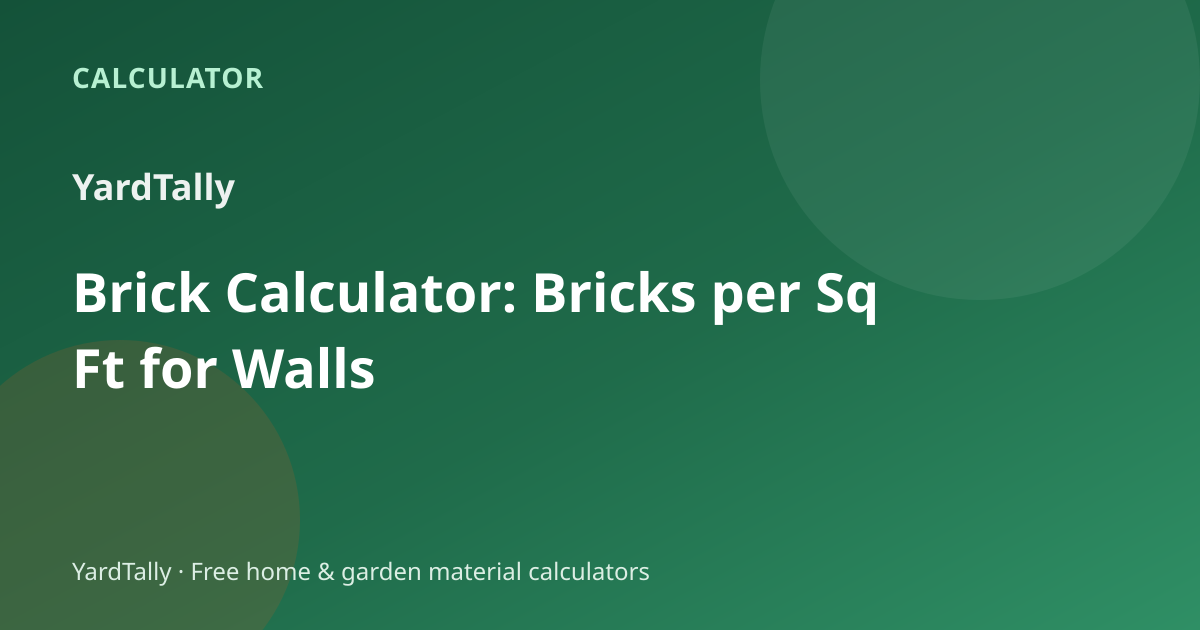
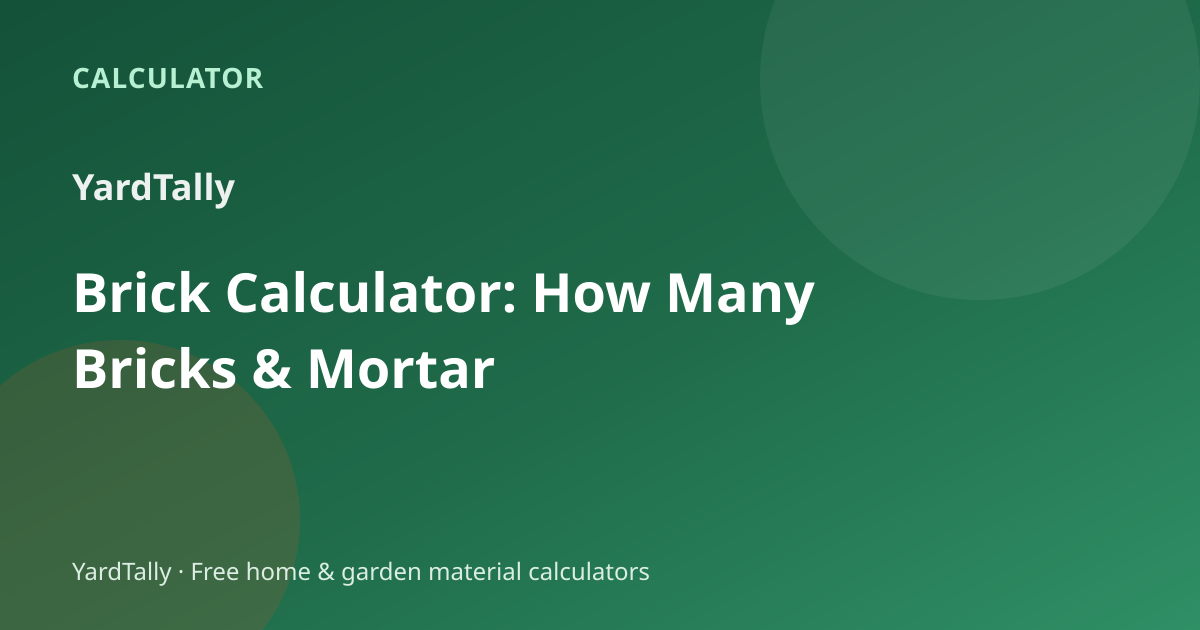
SEO fixes: slab cost, concrete, lumber, brick mortar, mulch (#56)
Retitle slab cost and concrete calculators; numeric answerFirst on slab
cost (1.23/1.36 yd with waste; prices labeled examples). Improve lumber
meta and assign weight-per-foot to the chart guide in KEYWORD-MAP. Add
QUIKRETE 1102 mortar-bag output and retitle brick. Remove duplicate
mulch-depth quick answer; link how-many-bags to slab cost.

Changed region(s): [[0.0617, 0.5429, 0.4317, 0.6333], [0.4317, 0.4222, 0.74, 0.5127]]

diff --git a/src/data/tools.ts b/src/data/tools.ts
@@ -233,10 +233,10 @@ export const tools: ToolDefinition[] = [
       'concrete calculator yards',
       'concrete calculator bags',
     ],
-    title: 'Concrete Slab Calculator: Yards, Bags & Rebar',
+    title: 'Concrete Calculator: Slab Yards & Bags',
     description:
       'Free concrete slab calculator for yards and 40/60/80 lb bags. Size 10×10, 12×12, and 20×20 at 4–6 inches, add waste, and see when a ready-mix truck makes sense.',
-    h1: 'Concrete Slab Calculator: Yards, Bags & Rebar',
+    h1: 'Concrete Calculator: Slab Yards & Bags',
     answerFirst:
       'This concrete slab calculator turns length × width × thickness into cubic yards and 40/60/80 lb bags. A 10×10 slab at 4 inches is about 1.23 cu yd (≈62 × 80 lb bags after 10% waste). Add waste, compare bag vs ready-mix, and open the size table below for 12×12 and 20×20.',
     summary: 'Concrete slab calculator for yards, bags, and common patio sizes.',
@@ -325,7 +325,7 @@ export const tools: ToolDefinition[] = [
     ],
     sectionsHtml: toolBodies['concrete-calculator'],
     datePublished: '2026-10-19',
-    dateModified: '2026-11-22',
+    dateModified: '2026-11-27',
     applicationCategory: 'UtilitiesApplication',
     embeddable: true,
   },
@@ -1847,12 +1847,12 @@ export const tools: ToolDefinition[] = [
       'CMU calculator',
       'cinder block calculator',
     ],
-    title: 'Brick Calculator: Bricks per Sq Ft for Walls',
+    title: 'Brick Calculator: How Many Bricks & Mortar',
     description:
-      'Brick calculator and brick estimator for walls. Count modular brick or CMU blocks per square foot with mortar joints and waste.',
-    h1: 'Brick Calculator: Bricks per Sq Ft for Walls',
+      'Brick calculator for walls: count modular brick or CMU, then estimate 80 lb mortar bags (QUIKRETE 1102: up to 37 bricks or 13 blocks per bag).',
+    h1: 'Brick Calculator: How Many Bricks & Mortar',
     answerFirst:
-      'Bricks needed ≈ wall face ÷ (brick face + mortar joint), counted in full courses. Modular brick with a ⅜ inch joint uses about 6.86 bricks per square foot (Glen-Gery). Switch to CMU mode for standard 8×16 concrete block faces.',
+      'Bricks needed ≈ wall face ÷ (brick face + mortar joint), counted in full courses. Modular brick with a ⅜ inch joint uses about 6.86 bricks per square foot (Glen-Gery). Mortar bags use QUIKRETE Mortar Mix 1102: up to 37 standard bricks or 13 standard blocks per 80 lb bag—confirm the bag you buy.',
     summary: 'Clay brick or CMU counts for a wall face with mortar and waste.',
     calculatorId: 'brick',
     relatedSlugs: [
@@ -1878,7 +1878,7 @@ export const tools: ToolDefinition[] = [
       {
         question: 'How much mortar per brick?',
         answer:
-          'Mortar volume depends on joint width and whether joints are full or face-shell bedded. This calculator counts units, not mortar bags—ask your mason or use the coverage on the mortar mix bag you buy.',
+          'QUIKRETE Mortar Mix No. 1102 lists up to 37 standard bricks or 13 standard 8×8×16 blocks per 80 lb bag. This calculator divides units-with-waste by those yields and rounds up. Joint width, bedding style, and specialty mixes change coverage—read the bag you buy.',
       },
       {
         question: 'Can I calculate concrete blocks (CMU) here?',
@@ -1904,10 +1904,16 @@ export const tools: ToolDefinition[] = [
         usedFor: 'Nominal 8×8×16 CMU; specified faces typically ⅜ in less than nominal for modular joints',
         checked: '2026-11-13',
       },
+      {
+        label: 'QUIKRETE Mortar Mix (No. 1102) data sheet',
+        href: 'https://www.quikrete.com/pdfs/data_sheet-mortar%20mix%201102.pdf',
+        usedFor: '80 lb bag lays up to 37 standard bricks or 13 standard 8×8×16 blocks',
+        checked: '2026-11-27',
+      },
     ],
     sectionsHtml: toolBodies['brick-calculator'],
     datePublished: '2026-11-13',
-    dateModified: '2026-11-25',
+    dateModified: '2026-11-27',
     applicationCategory: 'UtilitiesApplication',
     embeddable: true,
   },
@@ -1924,13 +1930,11 @@ export const tools: ToolDefinition[] = [
       'how much lumber do I need',
       'lumber weight calculator',
       'dimensional lumber weight calculator',
-      'dimensional lumber weight per foot',
       'square foot lumber calculator',
-      '2x4 weight',
     ],
     title: 'Lumber Calculator: Board Feet & Weight',
     description:
-      'Free lumber calculator for board feet, piece counts, and dimensional lumber weight. Softwood weight chart link plus KD vs green density options.',
+      'Free lumber calculator for board feet, piece counts, and softwood weight (dressed size × USDA density). Per-foot charts live on the lumber weight chart guide.',
     h1: 'Lumber Calculator: Board Feet & Weight',
     answerFirst:
       'Board feet = (nominal thickness × nominal width × length in feet) ÷ 12. Ten 2×4×8s are 53.3 board feet. Weight uses the dressed section (a 2×4 is 1½×3½) × USDA Wood Handbook density—about 8.4 lb for one kiln-dried SPF 2×4×8 as a planning estimate.',
@@ -2004,7 +2008,7 @@ export const tools: ToolDefinition[] = [
     ],
     sectionsHtml: toolBodies['lumber-calculator'],
     datePublished: '2026-11-13',
-    dateModified: '2026-11-25',
+    dateModified: '2026-11-27',
     applicationCategory: 'UtilitiesApplication',
     embeddable: true,
   },
@@ -2100,12 +2104,12 @@ export const tools: ToolDefinition[] = [
       'concrete patio cost calculator',
       'ready mix concrete cost calculator',
     ],
-    title: 'Concrete Slab Cost: Price per Sq Ft & Yard',
+    title: 'Concrete Slab Cost Calculator: Price per Sq Ft',
     description:
-      'Estimate concrete slab cost from your ready-mix $/yard or bag price. See price per sq ft, volume, and optional gravel, rebar, forms, and delivery add-ons.',
-    h1: 'Concrete Slab Cost: Price per Sq Ft & Yard',
+      'Estimate concrete slab cost from your ready-mix or bag price. A 10×10×4″ pour is about 1.36 cu yd with 10% waste—enter your quotes for total and $/sq ft.',
+    h1: 'Concrete Slab Cost Calculator: Price per Sq Ft',
     answerFirst:
-      'This concrete slab cost calculator turns length × width × thickness into cubic yards (or bags), then multiplies by the ready-mix or bag price you enter. Add optional line items you price yourself—gravel base, rebar or mesh, forms, delivery/short-load fees, and labor per square foot. Defaults are labeled examples only; replace them with your plant or store quotes.',
+      'A 10×10 slab at 4 inches is about 1.23 cu yd before waste (~1.36 cu yd with 10% waste). This concrete slab cost calculator multiplies that volume (or bag count) by the ready-mix or bag price you enter, then adds optional gravel, rebar, forms, delivery, and labor you price yourself. Default dollar fields are labeled examples—not market stats.',
     summary: 'Slab volume priced with your ready-mix or bag quotes plus optional add-ons.',
     calculatorId: 'concrete-slab-cost',
     relatedSlugs: [
@@ -2171,7 +2175,7 @@ export const tools: ToolDefinition[] = [
     ],
     sectionsHtml: toolBodies['concrete-slab-cost-calculator'],
     datePublished: '2026-11-19',
-    dateModified: '2026-11-22',
+    dateModified: '2026-11-27',
     applicationCategory: 'UtilitiesApplication',
     embeddable: true,
   },

diff --git a/src/data/guideBodies.ts b/src/data/guideBodies.ts
@@ -70,9 +70,7 @@ export const guideBodies: Record<string, string> = {
         <li><a href="https://www.sakrete.com/wp-content/uploads/2024/01/Sakrete-High-Strength-Concrete-Mix-TDS.pdf" rel="noopener noreferrer">Sakrete High Strength Concrete Mix TDS – bag yields</a></li>
       </ul>
   `,
-  'mulch-depth-guide': `      <div class="takeaway"><strong>Quick answer:</strong> Most flower beds and gardens want about <strong>2–3 inches</strong> of organic mulch—not a volcano against trunks. Pick the depth first, then run the free <a href="/calculators/mulch-calculator/">mulch calculator for bags and cubic yards</a>, the <a href="/calculators/mulch-calculator-circular-beds/">circular bed mulch calculator</a> for round beds, or the <a href="/calculators/mulch-calculator-tree-rings/">tree ring mulch calculator</a> for donuts. Formula: <strong>cu&nbsp;ft = area (sq&nbsp;ft) × (depth_inches ÷ 12)</strong>.</div>
-
-      <h2>How deep should mulch be in flower beds / for gardens?</h2>
+  'mulch-depth-guide': `      <h2>How deep should mulch be in flower beds / for gardens?</h2>
       <p><strong>Two to three inches.</strong> That's the working range for most flower beds and gardens—deep enough to knock weeds back and hold moisture, shallow enough that roots still get air. Clemson lists 2–3 inches for many wood and bark mulches; UF/IFAS Florida-Friendly guidance targets about 3 inches and says don't exceed 3 inches in beds.</p>
       <p>This page answers “how deep,” not only “how many bags.” Once you lock the inches, size the order with the <a href="/calculators/mulch-calculator/">mulch calculator for bags and yards</a>. Rectangle charts live in the <a href="/guides/mulch-for-common-garden-beds/">common bed sizes chart</a>.</p>
 
@@ -241,6 +239,7 @@ export const guideBodies: Record<string, string> = {
       </ul>
 
       <p>I'd rather haul one extra 80 lb bag than stop mid-spread with a wet slab waiting.</p>
+      <p>Once you know yards and bags, price the pour with your plant or store quotes on the <a href="/calculators/concrete-slab-cost-calculator/">concrete slab cost calculator</a>—defaults there are labeled examples, not market rates.</p>
       <h2>Does bag brand change the count?</h2>
       <p>Yes, a little. QUIKRETE 1101 and Sakrete High Strength sit close on the 40 / 60 / 80 lb planning yields YardTally uses, but lightweight, crack-resistant, and high-early mixes often print different coverage. If the store only has a specialty bag, don't force the 0.60 cu ft assumption. Re-divide with the number on that bag.</p>
       <p>Color and finish matter on visible slabs. Mixing two brands in one pour can show as a shade or texture change when it cures. Fence posts buried underground care less about color and more about outdoor mix vs interior patching compound.</p>

diff --git a/src/lib/calculators/brick.ts b/src/lib/calculators/brick.ts
@@ -18,6 +18,13 @@ export const CMU_FACE_HEIGHT_IN = 7.625;
 /** Common mortar joint for modular brick and CMU, inches. */
 export const STANDARD_MORTAR_JOINT_IN = 0.375;
 
+/**
+ * QUIKRETE Mortar Mix No. 1102 (80 lb): lays up to 37 standard bricks or
+ * 13 standard 8×8×16 blocks per bag (product data sheet, revised Nov 2020).
+ */
+export const QUIKRETE_MORTAR_80LB_BRICKS = 37;
+export const QUIKRETE_MORTAR_80LB_BLOCKS = 13;
+
 export interface BrickResult {
   mode: MasonryMode;
   faceAreaSqFt: number;
@@ -28,6 +35,8 @@ export interface BrickResult {
   unitsWithWaste: number;
   moduleLengthIn: number;
   moduleHeightIn: number;
+  /** 80 lb QUIKRETE Mortar Mix bags for unitsWithWaste (ceil). */
+  mortarBags80: number;
 }
 
 /**
@@ -66,6 +75,9 @@ export function masonryUnits(opts: {
   const exact = courses * unitsPerCourse;
   const waste = (opts.wastePercent ?? 5) / 100;
   const withWaste = Math.ceil(Math.round(exact * (1 + waste) * 1e6) / 1e6);
+  const perBag =
+    mode === 'cmu' ? QUIKRETE_MORTAR_80LB_BLOCKS : QUIKRETE_MORTAR_80LB_BRICKS;
+  const mortarBags80 = Math.ceil(withWaste / perBag);
 
   return {
     mode,
@@ -77,6 +89,7 @@ export function masonryUnits(opts: {
     unitsWithWaste: withWaste,
     moduleLengthIn: round(moduleL, 3),
     moduleHeightIn: round(moduleH, 3),
+    mortarBags80,
   };
 }
 

diff --git a/src/data/guides.ts b/src/data/guides.ts
@@ -88,7 +88,7 @@ export const guides: GuideDefinition[] = [
       'raised-bed-soil-mix-4x8',
     ],
     datePublished: '2026-10-19',
-    dateModified: '2026-11-25',
+    dateModified: '2026-11-27',
   }),
   g({
     slug: 'how-many-bags-of-concrete',
@@ -102,6 +102,7 @@ export const guides: GuideDefinition[] = [
       'An 80 lb bag yields about 0.60 cu ft; you need roughly 45 bags per cubic yard before waste. Divide your project volume in cubic feet by the bag yield (about 0.30 / 0.45 / 0.60 for 40 / 60 / 80 lb), then round up. For pours larger than about one yard, ready-mix is usually more practical.',
     relatedToolSlugs: [
       'concrete-calculator',
+      'concrete-slab-cost-calculator',
       'concrete-calculator-post-holes',
       'sonotube-concrete-calculator',
       'rebar-calculator',
@@ -115,7 +116,7 @@ export const guides: GuideDefinition[] = [
       'sonotube-footing-and-depth',
     ],
     datePublished: '2026-10-19',
-    dateModified: '2026-11-19',
+    dateModified: '2026-11-27',
   }),
   g({
     slug: 'concrete-for-10x10-slab',

diff --git a/src/data/toolBodies.ts b/src/data/toolBodies.ts
@@ -1031,7 +1031,7 @@ bags = ceil(volume_total × (1 + waste) ÷ bag_yield)</code></pre>
         <li>Skipping waste on cut-heavy patterns.</li>
       </ul>
       <h2>Assumptions and limits</h2>
-      <p><strong>Planning estimate only.</strong> Check manufacturer specs and local code before you order. Results assume a flat rectangular face with uniform unit size and joint. Corbelled, curved, or multi-wythe walls need extra detailing. Mortar volume isn't estimated here—ask your mason or use bag coverage on the mortar mix you buy.</p>
+      <p><strong>Planning estimate only.</strong> Check manufacturer specs and local code before you order. Results assume a flat rectangular face with uniform unit size and joint. Corbelled, curved, or multi-wythe walls need extra detailing. Mortar bags use QUIKRETE Mortar Mix No. 1102 yields (up to 37 standard bricks or 13 standard blocks per 80 lb bag)—confirm the bag you buy.</p>
       <h2>Shopping checklist</h2>
       <ul>
         <li>Confirm actual face dimensions and joint width with the supplier.</li>

diff --git a/tests/calculators.test.ts b/tests/calculators.test.ts
@@ -667,6 +667,26 @@ describe('brick / CMU', () => {
     });
     expect(r.unitsWithWaste).toBe(Math.ceil(r.unitsExact * 1.05));
   });
+
+  it('estimates 80 lb mortar bags from QUIKRETE 1102 yields', () => {
+    const brick = brickCount({
+      wallLength: 10,
+      wallHeight: 10,
+      wastePercent: 0,
+    });
+    // 15×46 = 690 bricks → ceil(690/37) = 19 bags
+    expect(brick.unitsExact).toBe(690);
+    expect(brick.mortarBags80).toBe(Math.ceil(690 / 37));
+
+    const cmu = cmuCount({
+      wallLength: 16,
+      wallHeight: 8,
+      wastePercent: 0,
+    });
+    // 144 blocks → ceil(144/13) = 12 bags
+    expect(cmu.unitsExact).toBe(144);
+    expect(cmu.mortarBags80).toBe(Math.ceil(144 / 13));
+  });
 });
 
 describe('lumber', () => {

diff --git a/src/data/calculatorFields.ts b/src/data/calculatorFields.ts
@@ -960,6 +960,7 @@ export const defaultResultRows: Record<string, [string, string][]> = {
     ['Units / course', String(brickDefault.unitsPerCourse)],
     ['Units (exact)', String(brickDefault.unitsExact)],
     ['Units with waste', String(brickDefault.unitsWithWaste)],
+    ['80 lb mortar bags (est.)', String(brickDefault.mortarBags80)],
   ],
   lumber: [
     ['Board feet / piece', String(lumberDefault.boardFeetPerPiece)],

diff --git a/docs/KEYWORD-MAP.md b/docs/KEYWORD-MAP.md
@@ -40,7 +40,7 @@ Governing research: [MARKET-RESEARCH.md](./MARKET-RESEARCH.md), [SEO-PLAYBOOK.md
 | `/calculators/raised-bed-soil-calculator/` | raised bed soil calculator | garden box soil calculator |
 | `/calculators/asphalt-calculator/` | asphalt calculator | asphalt driveway calculator, how much asphalt do I need, asphalt tons calculator, blacktop calculator |
 | `/calculators/brick-calculator/` | brick calculator | brick estimator, how many bricks do I need, concrete block calculator, CMU calculator, cinder block calculator |
-| `/calculators/lumber-calculator/` | lumber calculator | board feet calculator, how many board feet, what is a board foot, how much lumber do I need, lumber weight calculator, dimensional lumber weight calculator, dimensional lumber weight per foot, square foot lumber calculator, 2x4 weight |
+| `/calculators/lumber-calculator/` | lumber calculator | board feet calculator, how many board feet, what is a board foot, how much lumber do I need, lumber weight calculator, dimensional lumber weight calculator, square foot lumber calculator |
 | `/guides/lumber-weight-chart/` | lumber weight chart | 2x4 weight, 2x4 weight per foot, how much does a 2x4x8 weigh, lumber weight per foot, dimensional lumber weight per foot, pressure treated lumber weight |
 | `/calculators/rebar-calculator/` | rebar calculator | how much rebar for a slab, concrete slab rebar, rebar spacing calculator, rebar for 20x20 slab |
 | `/guides/how-much-concrete-for-fence-posts/` | how much concrete for fence posts | bags of concrete for fence posts |
@@ -82,7 +82,8 @@ Governing research: [MARKET-RESEARCH.md](./MARKET-RESEARCH.md), [SEO-PLAYBOOK.md
 - Slab **cost** (`/calculators/concrete-slab-cost-calculator/`) is separate from slab **volume** (`/calculators/concrete-calculator/`)—do not merge; cost page must use user-entered prices only (no invented market rates).
 - Rebar is a **separate intent** from concrete volume—keep `/calculators/rebar-calculator/`; do **not** launch a second slab-volume URL under a rebar slug.
 - Brick calculator owns clay brick **and** CMU/cinder-block count modes—do not split `/concrete-block-calculator/`. Segmental retaining-wall blocks stay on the retaining-wall tool.
-- Lumber calculator owns board-foot tally **and** lumber weight (same URL)—do not split `/board-feet-calculator/` or `/lumber-weight-calculator/`. Weight **chart** guide (`/guides/lumber-weight-chart/`) owns know/compare tables for 2×4 weight etc.; calculator owns the interactive estimator. Deck board/joist layout stays on the deck-material tool.
+- Lumber calculator owns board-foot tally **and** interactive lumber weight (same URL)—do not split `/board-feet-calculator/` or `/lumber-weight-calculator/`. Weight **chart** guide (`/guides/lumber-weight-chart/`) owns know/compare **weight-per-foot** tables (2×4 lb/ft, dimensional lumber weight per foot); do not target those “per foot” chart queries on the calculator title/meta. Deck board/joist layout stays on the deck-material tool.
+- Brick calculator owns unit counts **and** mortar-bag estimates from QUIKRETE Mortar Mix 1102 yields (37 bricks / 13 blocks per 80 lb)—do not invent other bag coverage.
 - Deck footing calculator owns **pier count + frost-depth concrete** from deck size/spacing—do not fold into deck-material or Sonotube titles; link Sonotube for known tube-only pours.
 - Tree-ring mulch ≠ bed mulch—keep separate. Mulch **depth** guide ≠ mulch **quantity** calculator (owns “how much mulch do I need” + bags vs bulk + 3-3-3) ≠ common **bed-size** chart. Legacy `/guides/how-much-mulch-do-i-need/` **301** → `/calculators/mulch-calculator/`.
 - French drain gravel (trench − pipe + fabric) ≠ flat-pad gravel calculator—keep `/calculators/french-drain-gravel-calculator/` separate; link to `/calculators/gravel-calculator/` for pads/drives.

diff --git a/docs/GROWTH-STATUS.md b/docs/GROWTH-STATUS.md
@@ -28,7 +28,8 @@ As of **2026-11-25** (GSC `sc-domain:getyardtally.com`, last **3 months** unless
 
 ## Done
 
-- **2026-11-27 — this PR (Worker `/404/` body):** Live `/404/` returned empty body + `Location: /404/` because the Worker fetched `/404.html` and Assets `force-trailing-slash` 307’d it. Now fetches ASSETS `/404/`, strips Location, forces status 404 (also covers `/404.html`). **No IndexNow.**
+- **2026-11-27 — this PR (SEO page fixes):** Concrete slab cost title/H1/meta + numeric answerFirst; concrete calculator title “Slab Yards & Bags”; lumber meta + KEYWORD-MAP settle weight-per-foot on chart guide; brick mortar bags (QUIKRETE 1102: 37 bricks / 13 blocks per 80 lb) + retitle; mulch-depth duplicate takeaway removed; how-many-bags → slab-cost link. **No IndexNow.**
+- **2026-11-27 — Worker `/404/` body (#55):** Live `/404/` returned empty body + `Location: /404/` because the Worker fetched `/404.html` and Assets `force-trailing-slash` 307’d it. Now fetches ASSETS `/404/`, strips Location, forces status 404 (also covers `/404.html`).
 - **2026-11-27 — embed framing (#54):** `/embed/*` can be iframed cross-origin (`! X-Frame-Options` + CSP `frame-ancestors *`); site-wide `X-Frame-Options: SAMEORIGIN` unchanged.
 - **2026-11-27 — analytics reliability (#53):** GA no longer deferred via `requestIdleCallback` (loads immediately); Accept path sends at most one `page_view` (explicit only if `config` already ran); CSP `script-src` includes `https://*.adtrafficquality.google`.
 - **2026-11-27 — geo analytics consent (#52):** Consent Mode region defaults — EEA/UK/CH analytics+ads denied until Google CMP; elsewhere `analytics_storage` granted by default (ads still denied until Accept). Cookie bar Reject label → “Do not sell or share”; new `/cookies/` preference page (`noindex,follow`, sitemap-excluded). Privacy/terms/ADSENSE/AGENTS/consent-csp rules updated to the owner policy (Sidney, 2026-11-27).
@@ -92,7 +93,7 @@ As of **2026-11-25** (GSC `sc-domain:getyardtally.com`, last **3 months** unless
 
 ## In progress
 
-- **2026-11-27:** Remaining fix PR — SEO page copy (#56).
+- None for the 2026-11-27 fix-PR batch (#52–#56); off-repo directory/embed/Product Hunt work remains below.
 
 ## Off-repo work
 

diff --git a/README.md b/README.md
@@ -14,8 +14,8 @@ Refresh this section whenever you ship a PR. Full detail + metrics: [`docs/GROWT
 
 ### Done (as of 2026-11-27)
 
-- **Worker `/404/` body (this PR):** Serve the Astro 404 HTML with HTTP 404 (fetch ASSETS `/404/`, strip `Location`). Fixes empty-body 404 caused by `/404.html` → 307 under `force-trailing-slash`.
-- Prior: Embed framing (#54); analytics reliability (#53); geo analytics consent (#52); SEO authority + GSC variants; durable SEO agent rules; title/H1 rewrite; mulch quantity merge; lumber weight + chart; Agathox; slab/footing upgrades; homepage grid; PAA guides; human-writing rewrite; TinyLaunch (2026-12-07).
+- **SEO page fixes (this PR):** Slab cost title/H1/meta/answerFirst (opens with 1.23/1.36 yd; prices labeled examples); concrete calculator title drops Rebar; lumber meta + KEYWORD-MAP (weight-per-foot owned by chart guide); brick mortar bags from QUIKRETE 1102 + retitle; mulch-depth duplicate quick-answer removed; inbound from how-many-bags → slab cost.
+- Prior: Worker `/404/` (#55); embed framing (#54); analytics reliability (#53); geo analytics consent (#52); SEO authority + GSC variants; durable SEO agent rules; title/H1 rewrite; mulch quantity merge; lumber weight + chart; Agathox; slab/footing upgrades; homepage grid; PAA guides; human-writing rewrite; TinyLaunch (2026-12-07).
 
 ## Embed this calculator
 
